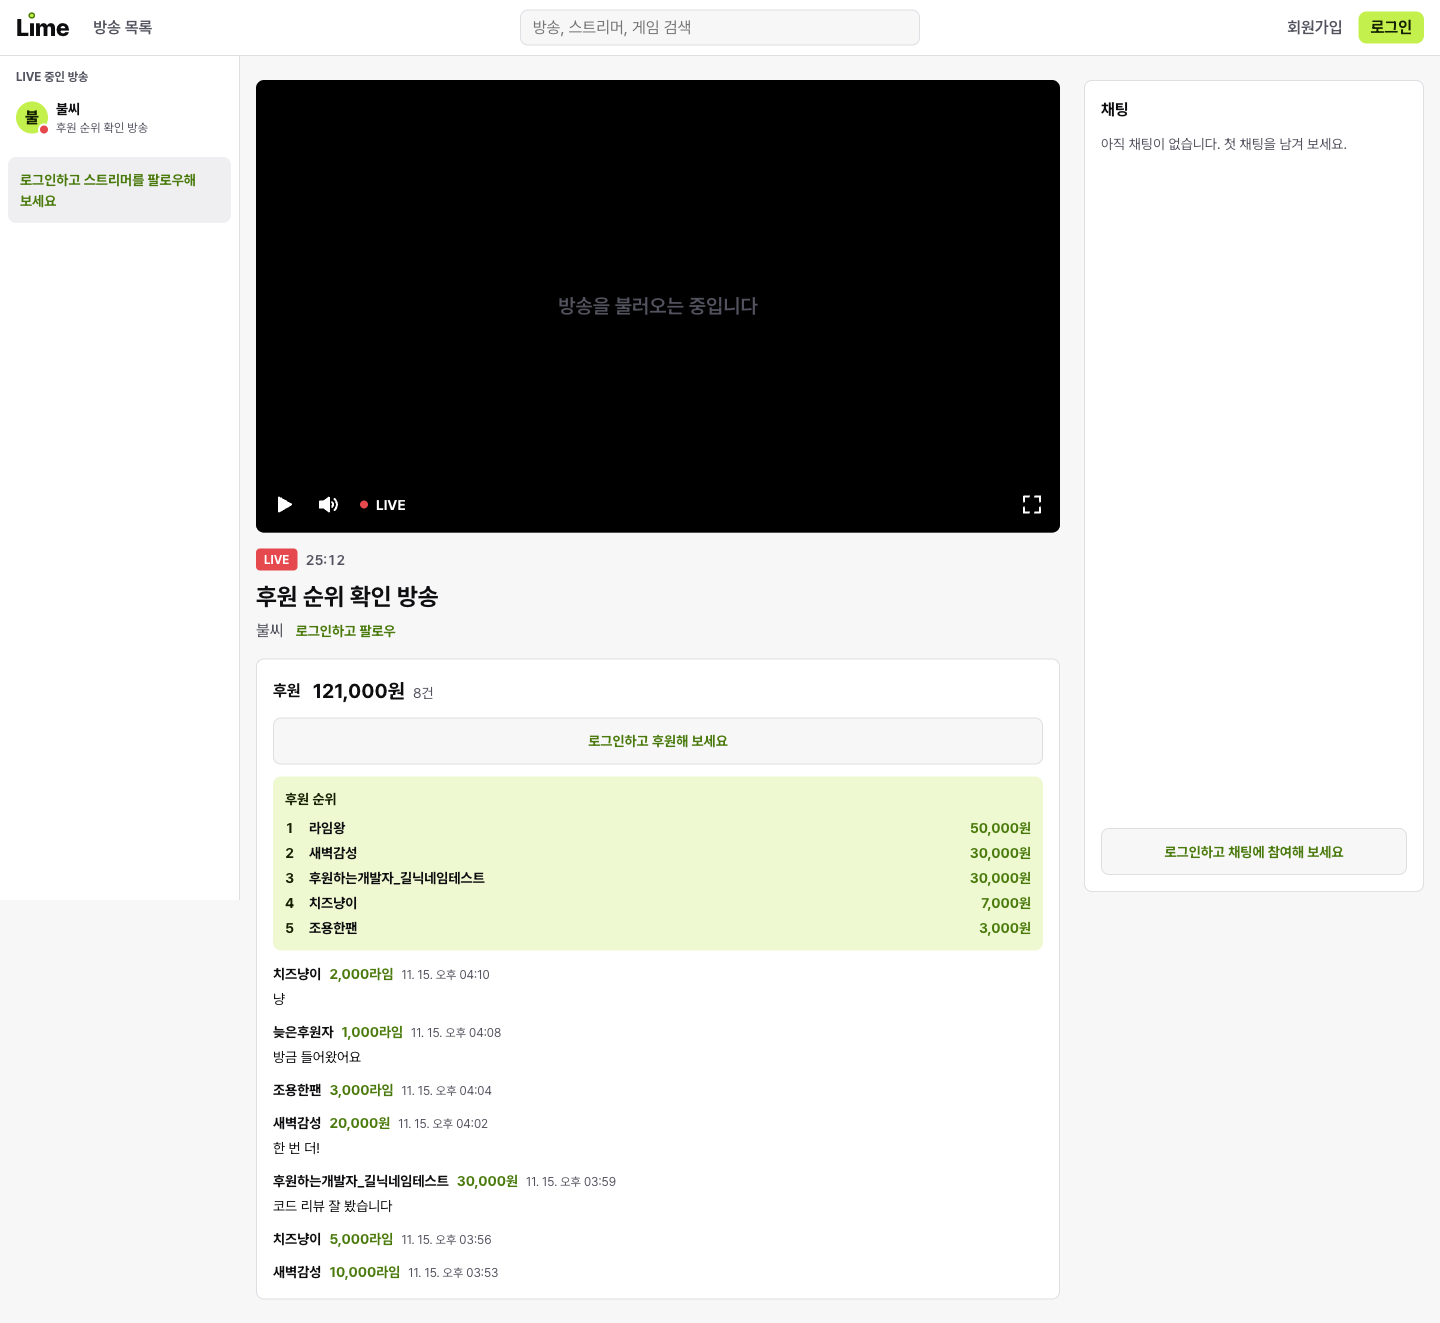
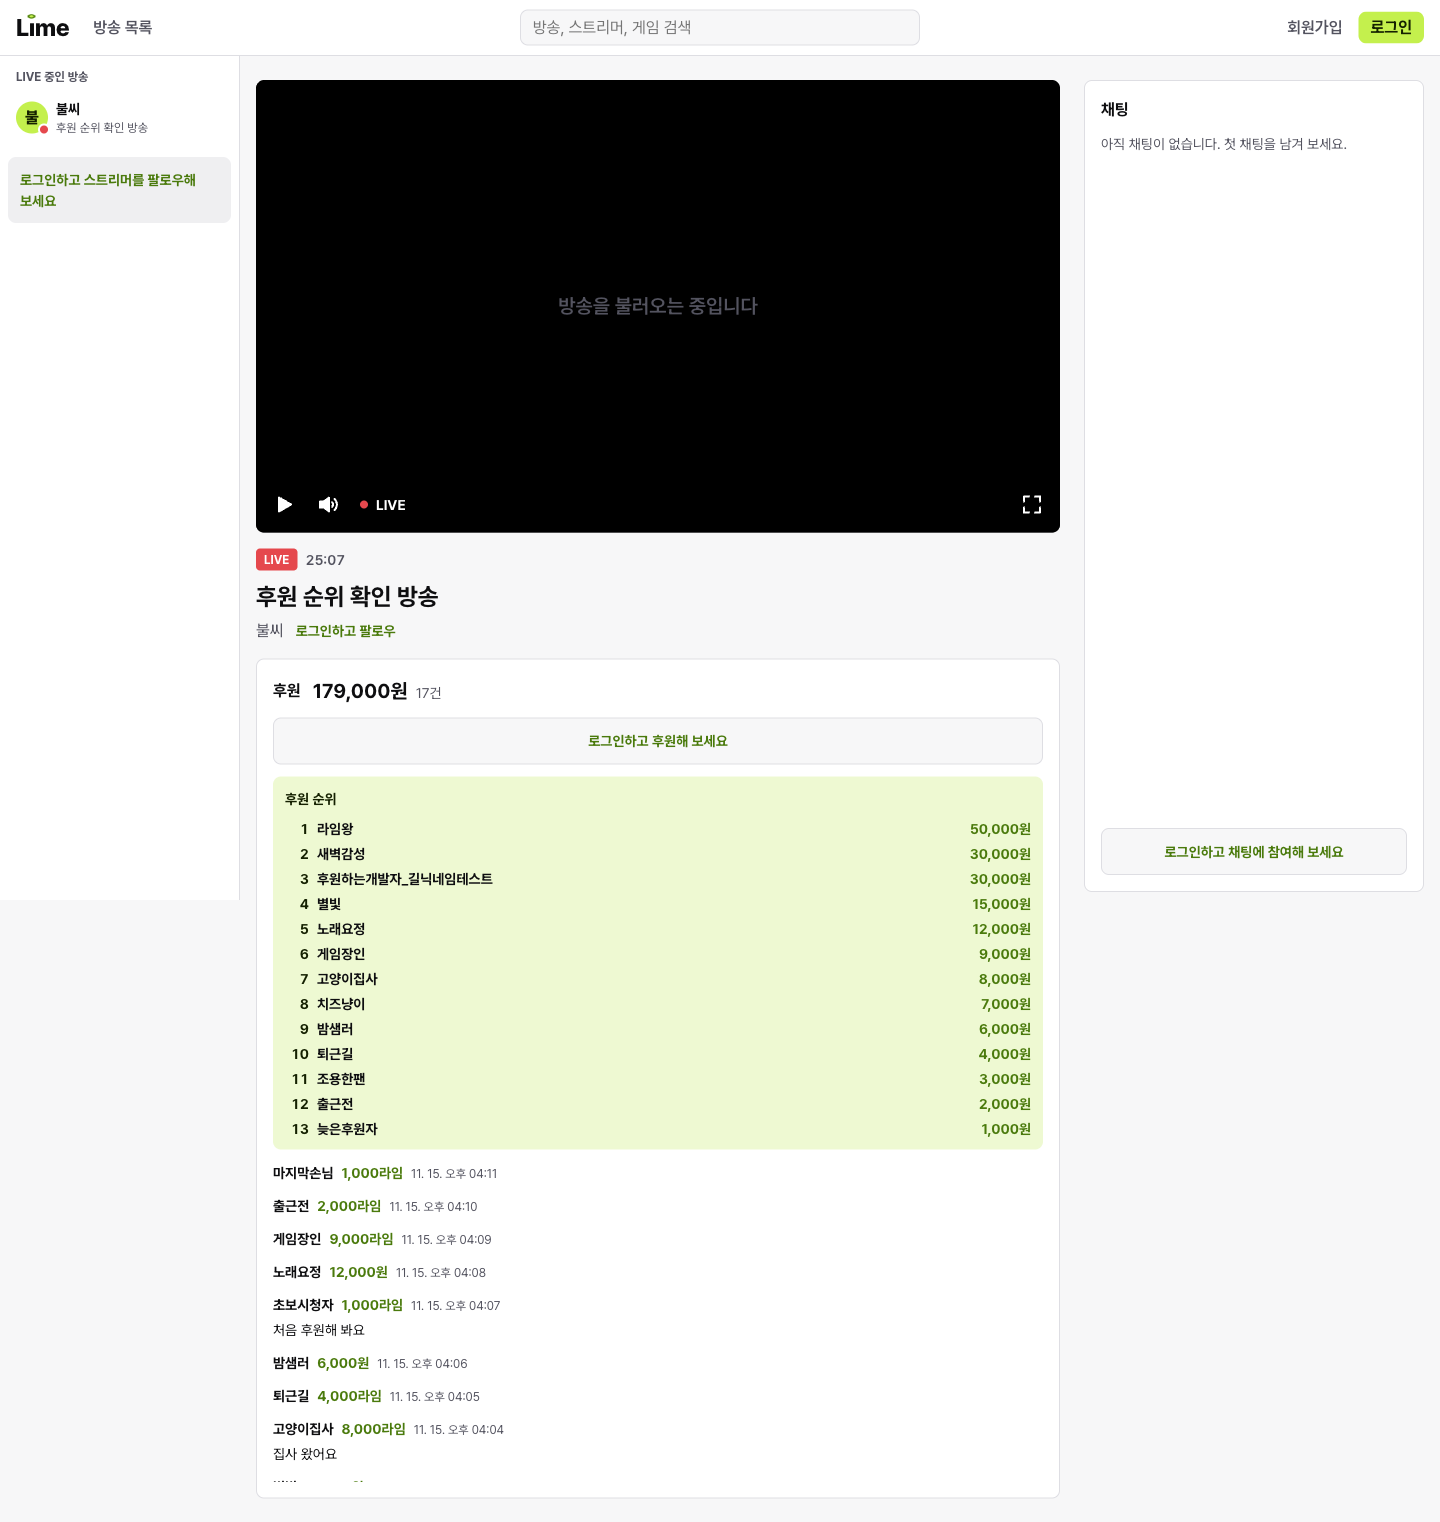
후원 순위를 후원자별 누적 목록(최대 50명)으로 넓힌다 (#163)
11/15 결정: 후원 영역에는 닉네임과 이 방송 누적 금액만 두고 메시지는
채팅으로 옮긴다(#166). 그래서 ranking은 상위 5명이 아니라 후원자별
누적 목록이다. 상한은 최근 목록과 같은 DONATION_LIST_LIMIT(50)다.
응답 모양은 그대로라 송출 후원 패널(#160)이 같은 계약을 쓴다.

화면은 50명 모두를 최근 후원 목록과 같은 최대 높이에서 스크롤해 보인다.

diff --git a/apps/api/src/donations/donations.service.ts b/apps/api/src/donations/donations.service.ts
@@ -31,9 +31,6 @@ export const DONATION_MESSAGE_MAX_LENGTH = 100;
 // 합계는 이 목록이 아니라 집계에서 가져온다.
 export const DONATION_LIST_LIMIT = 50;
 
-// 후원 순위(S12)에 보이는 인원.
-export const DONATION_RANKING_LIMIT = 5;
-
 export const NOT_CONFIGURED_MESSAGE = '후원 기능이 설정되지 않았습니다.';
 export const ORDER_NOT_FOUND_MESSAGE = '후원 주문을 찾을 수 없습니다.';
 export const NOT_YOUR_ORDER_MESSAGE = '내 후원 주문만 승인할 수 있습니다.';
@@ -85,8 +82,9 @@ export interface DonationList {
   total: number;
   count: number;
   donations: DonationView[];
-  // 누적 금액이 큰 순, 같으면 이 방송에 먼저 후원한 순으로 상위
-  // DONATION_RANKING_LIMIT명. 최근 목록과 달리 PAID 후원 전부로 센다.
+  // 후원자별 누적. 누적 금액이 큰 순, 같으면 이 방송에 먼저 후원한 순으로
+  // 최대 DONATION_LIST_LIMIT명. 최근 목록과 달리 PAID 후원 전부로 센다.
+  // 송출 화면 후원 패널(#160)도 이 모양을 그대로 쓴다.
   ranking: DonationRank[];
 }
 
@@ -180,7 +178,7 @@ export class DonationsService {
     };
   }
 
-  // groupBy는 관계를 못 읽으므로 닉네임은 상위 N명만 따로 읽어 붙인다.
+  // groupBy는 관계를 못 읽으므로 닉네임은 고른 후원자만 따로 읽어 붙인다.
   private async ranking(
     where: Prisma.DonationWhereInput,
   ): Promise<DonationRank[]> {
@@ -190,7 +188,7 @@ export class DonationsService {
       _sum: { amount: true },
       _min: { approvedAt: true },
       orderBy: [{ _sum: { amount: 'desc' } }, { _min: { approvedAt: 'asc' } }],
-      take: DONATION_RANKING_LIMIT,
+      take: DONATION_LIST_LIMIT,
     });
     const donors = await this.prisma.user.findMany({
       where: { id: { in: groups.map((group) => group.donorId) } },

diff --git a/apps/api/test/donations.e2e.spec.ts b/apps/api/test/donations.e2e.spec.ts
@@ -8,7 +8,6 @@ import {
   DONATION_MAX_AMOUNT,
   DONATION_MESSAGE_MAX_LENGTH,
   DONATION_MIN_AMOUNT,
-  DONATION_RANKING_LIMIT,
   type DonationOrder,
 } from '../src/donations/donations.service.js';
 import { TossPaymentsError } from '../src/donations/toss-payments.js';
@@ -591,15 +590,25 @@ describe('donations', () => {
       ]);
     });
 
-    it(`shows the top ${DONATION_RANKING_LIMIT} only`, async () => {
-      for (let i = 0; i <= DONATION_RANKING_LIMIT; i += 1) {
-        const fan = await signUpAndLogIn(app, { nickname: `팬${i}` });
-        await seed(fan.user.id, 1000 * (i + 1));
+    it(`lists up to ${DONATION_LIST_LIMIT} donors`, async () => {
+      // 가입 API를 51번 부르지 않고 사용자 행을 바로 넣는다.
+      const fans = Array.from({ length: DONATION_LIST_LIMIT + 1 }, (_, i) => ({
+        email: `fan${i}@example.com`,
+        nickname: `팬${i}`,
+        passwordHash: 'unused',
+      }));
+      await prisma.user.createMany({ data: fans });
+      const rows = await prisma.user.findMany({
+        where: { email: { in: fans.map((fan) => fan.email) } },
+        select: { id: true, nickname: true },
+      });
+      for (const row of rows) {
+        await seed(row.id, 1000 * (Number(row.nickname.slice(1)) + 1));
       }
 
       const { ranking } = await list();
-      expect(ranking).toHaveLength(DONATION_RANKING_LIMIT);
-      expect(ranking[0]?.donor.nickname).toBe(`팬${DONATION_RANKING_LIMIT}`);
+      expect(ranking).toHaveLength(DONATION_LIST_LIMIT);
+      expect(ranking[0]?.donor.nickname).toBe(`팬${DONATION_LIST_LIMIT}`);
       expect(ranking.map((rank) => rank.donor.nickname)).not.toContain('팬0');
     });
 

diff --git a/apps/web/src/components/DonationPanel.module.css b/apps/web/src/components/DonationPanel.module.css
@@ -132,7 +132,7 @@
   font-size: var(--font-size-sm);
 }
 
-/* S12 후원 순위. 최근 후원 목록과 구분되게 옅은 라임 면에 둔다. */
+/* S12 후원자별 누적(후원 순위). 최근 후원 목록과 구분되게 옅은 라임 면에 둔다. */
 .ranking {
   display: flex;
   flex-direction: column;
@@ -152,8 +152,11 @@
   display: flex;
   flex-direction: column;
   gap: var(--space-1);
+  /* 최대 50명이라 최근 후원 목록과 같은 높이에서 스크롤한다. */
+  max-height: var(--donation-list-max-height);
   margin: 0;
   padding: 0;
+  overflow-y: auto;
   list-style: none;
 }
 
@@ -165,7 +168,9 @@
 }
 
 .place {
-  min-width: var(--space-4);
+  /* 두 자리 순위(최대 50)도 닉네임 시작선이 같게 한다. */
+  min-width: var(--space-6);
+  text-align: right;
   color: var(--color-on-brand);
   font-weight: 700;
   font-variant-numeric: tabular-nums;

diff --git a/apps/web/src/components/DonationPanel.tsx b/apps/web/src/components/DonationPanel.tsx
@@ -133,7 +133,8 @@ export function DonationPanel({
   );
 }
 
-// 순위 금액은 카드와 라임을 합친 값이라 수단과 관계없이 원으로 적는다.
+// 후원자별 누적(최대 50명, 서버가 정렬)을 그대로 그린다. 금액은 카드와
+// 라임을 합친 값이라 수단과 관계없이 원으로 적는다.
 function DonationRanking({ ranking }: { ranking: DonationRank[] }) {
   return (
     <div className={styles.ranking}>
